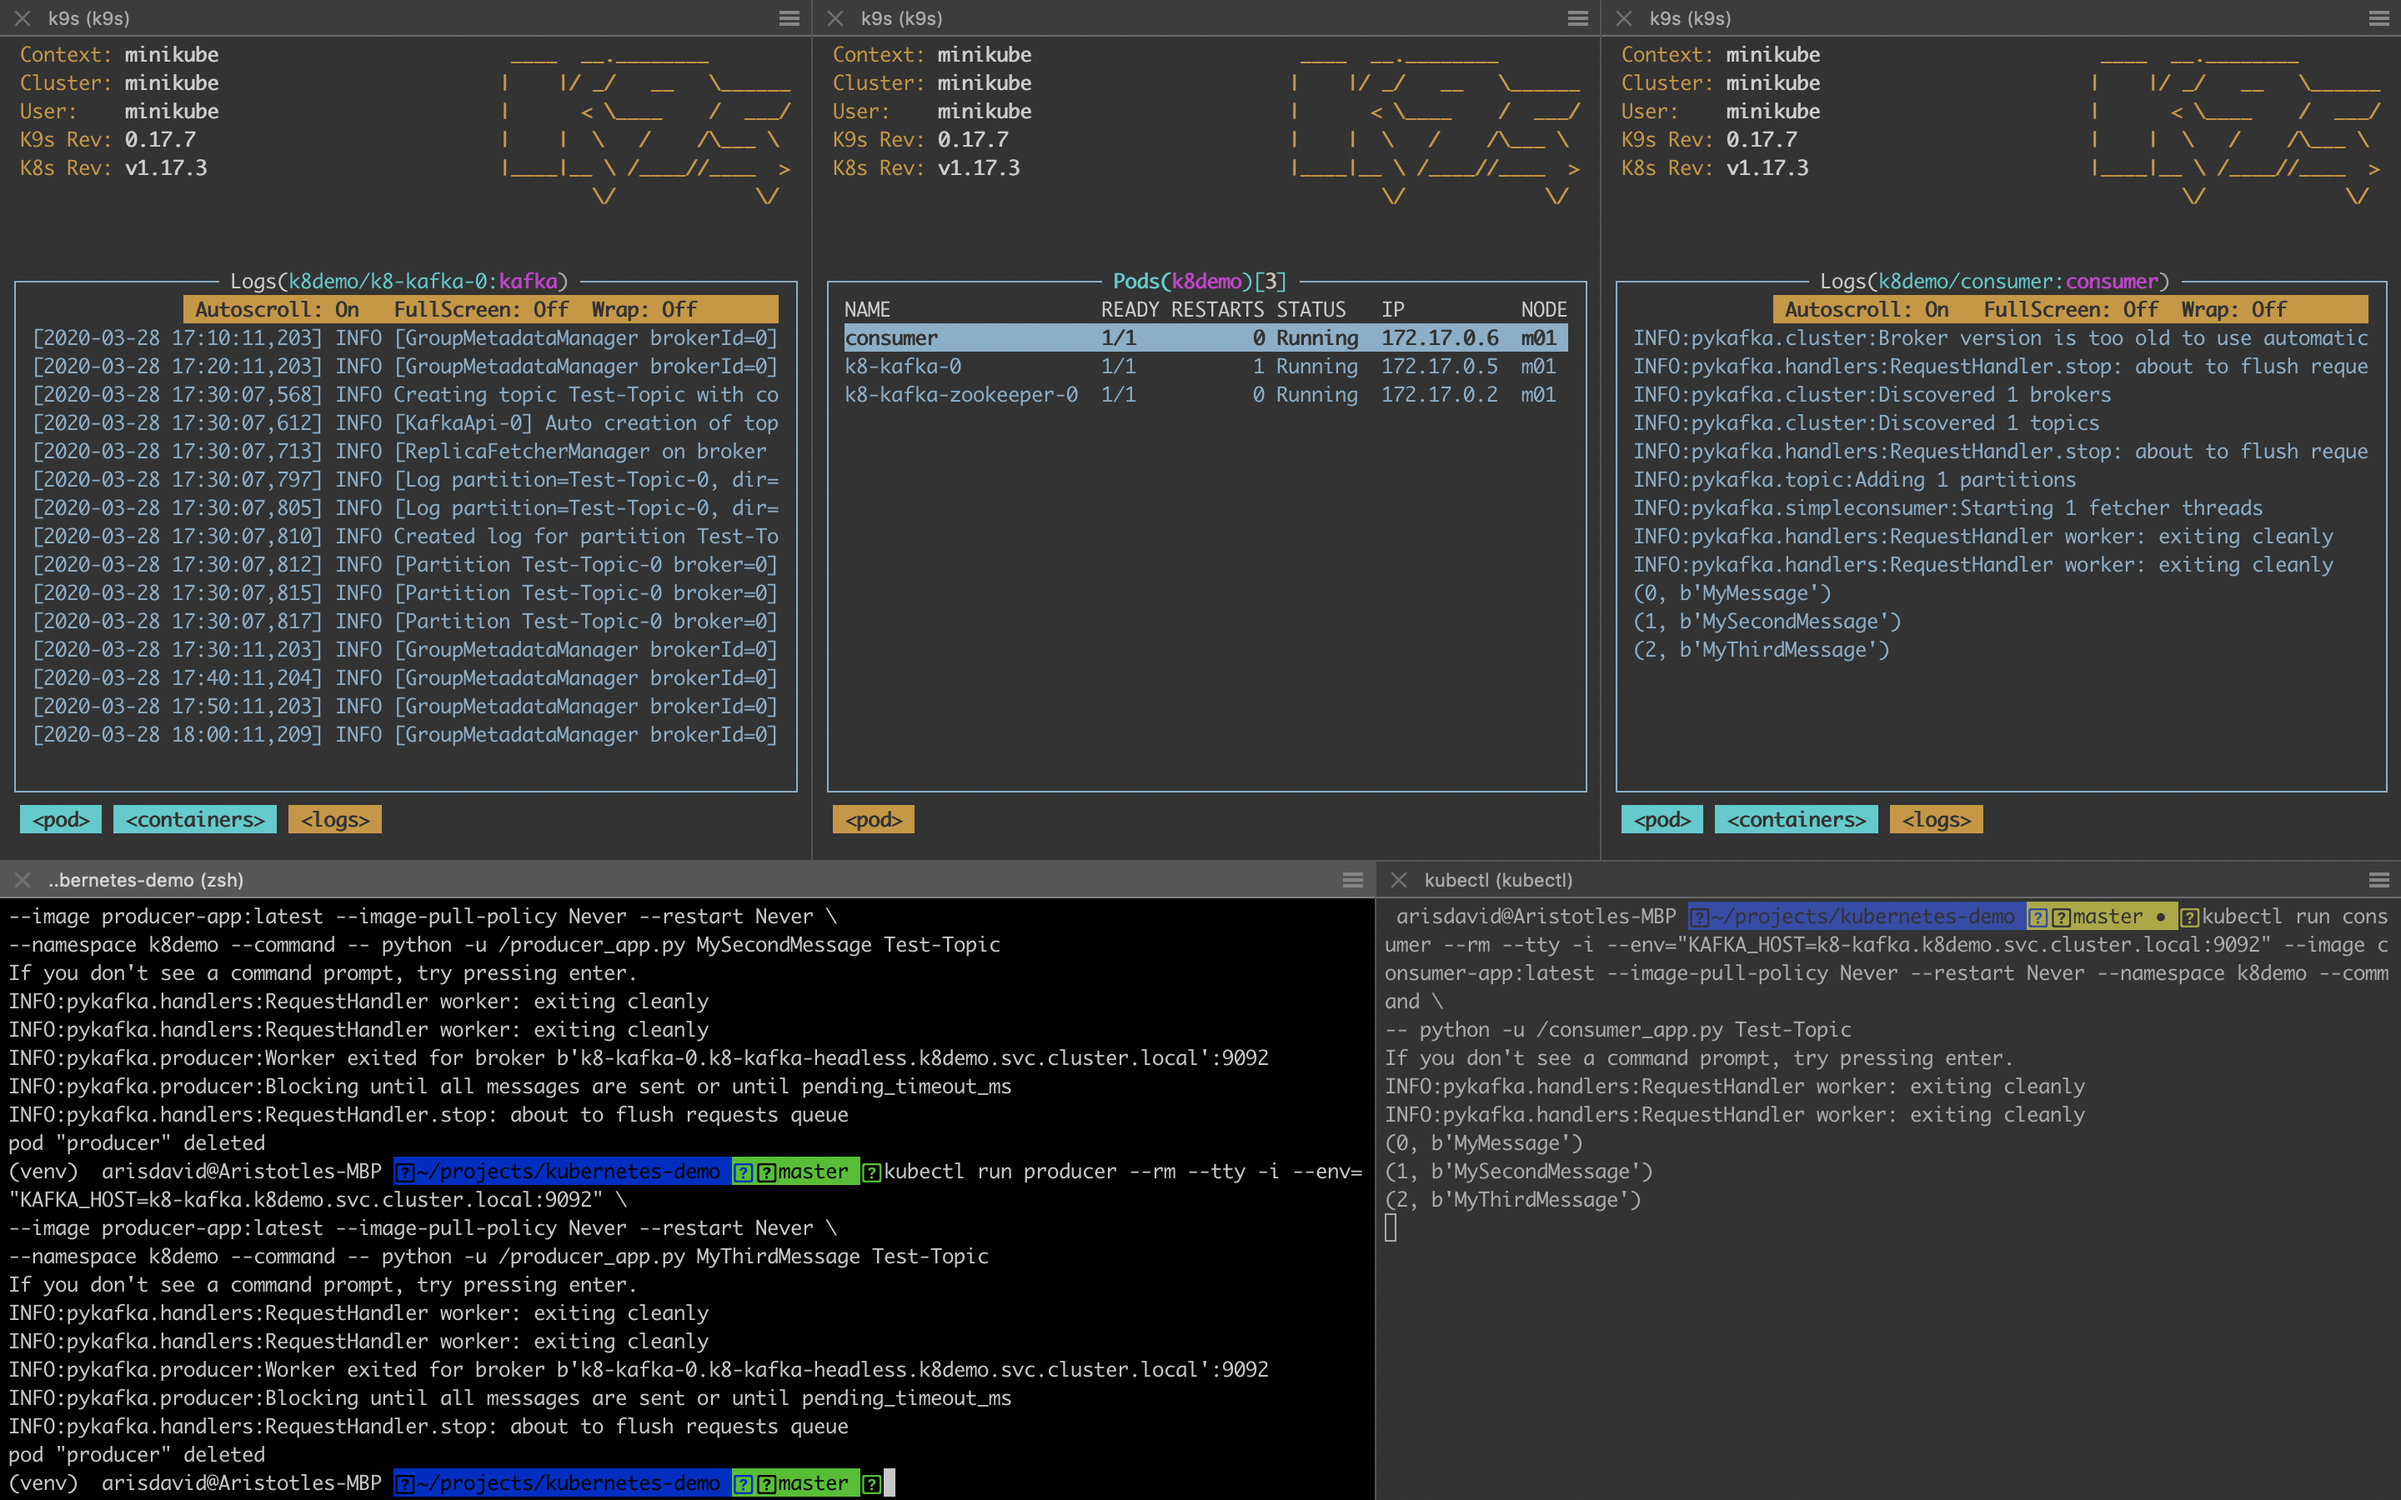
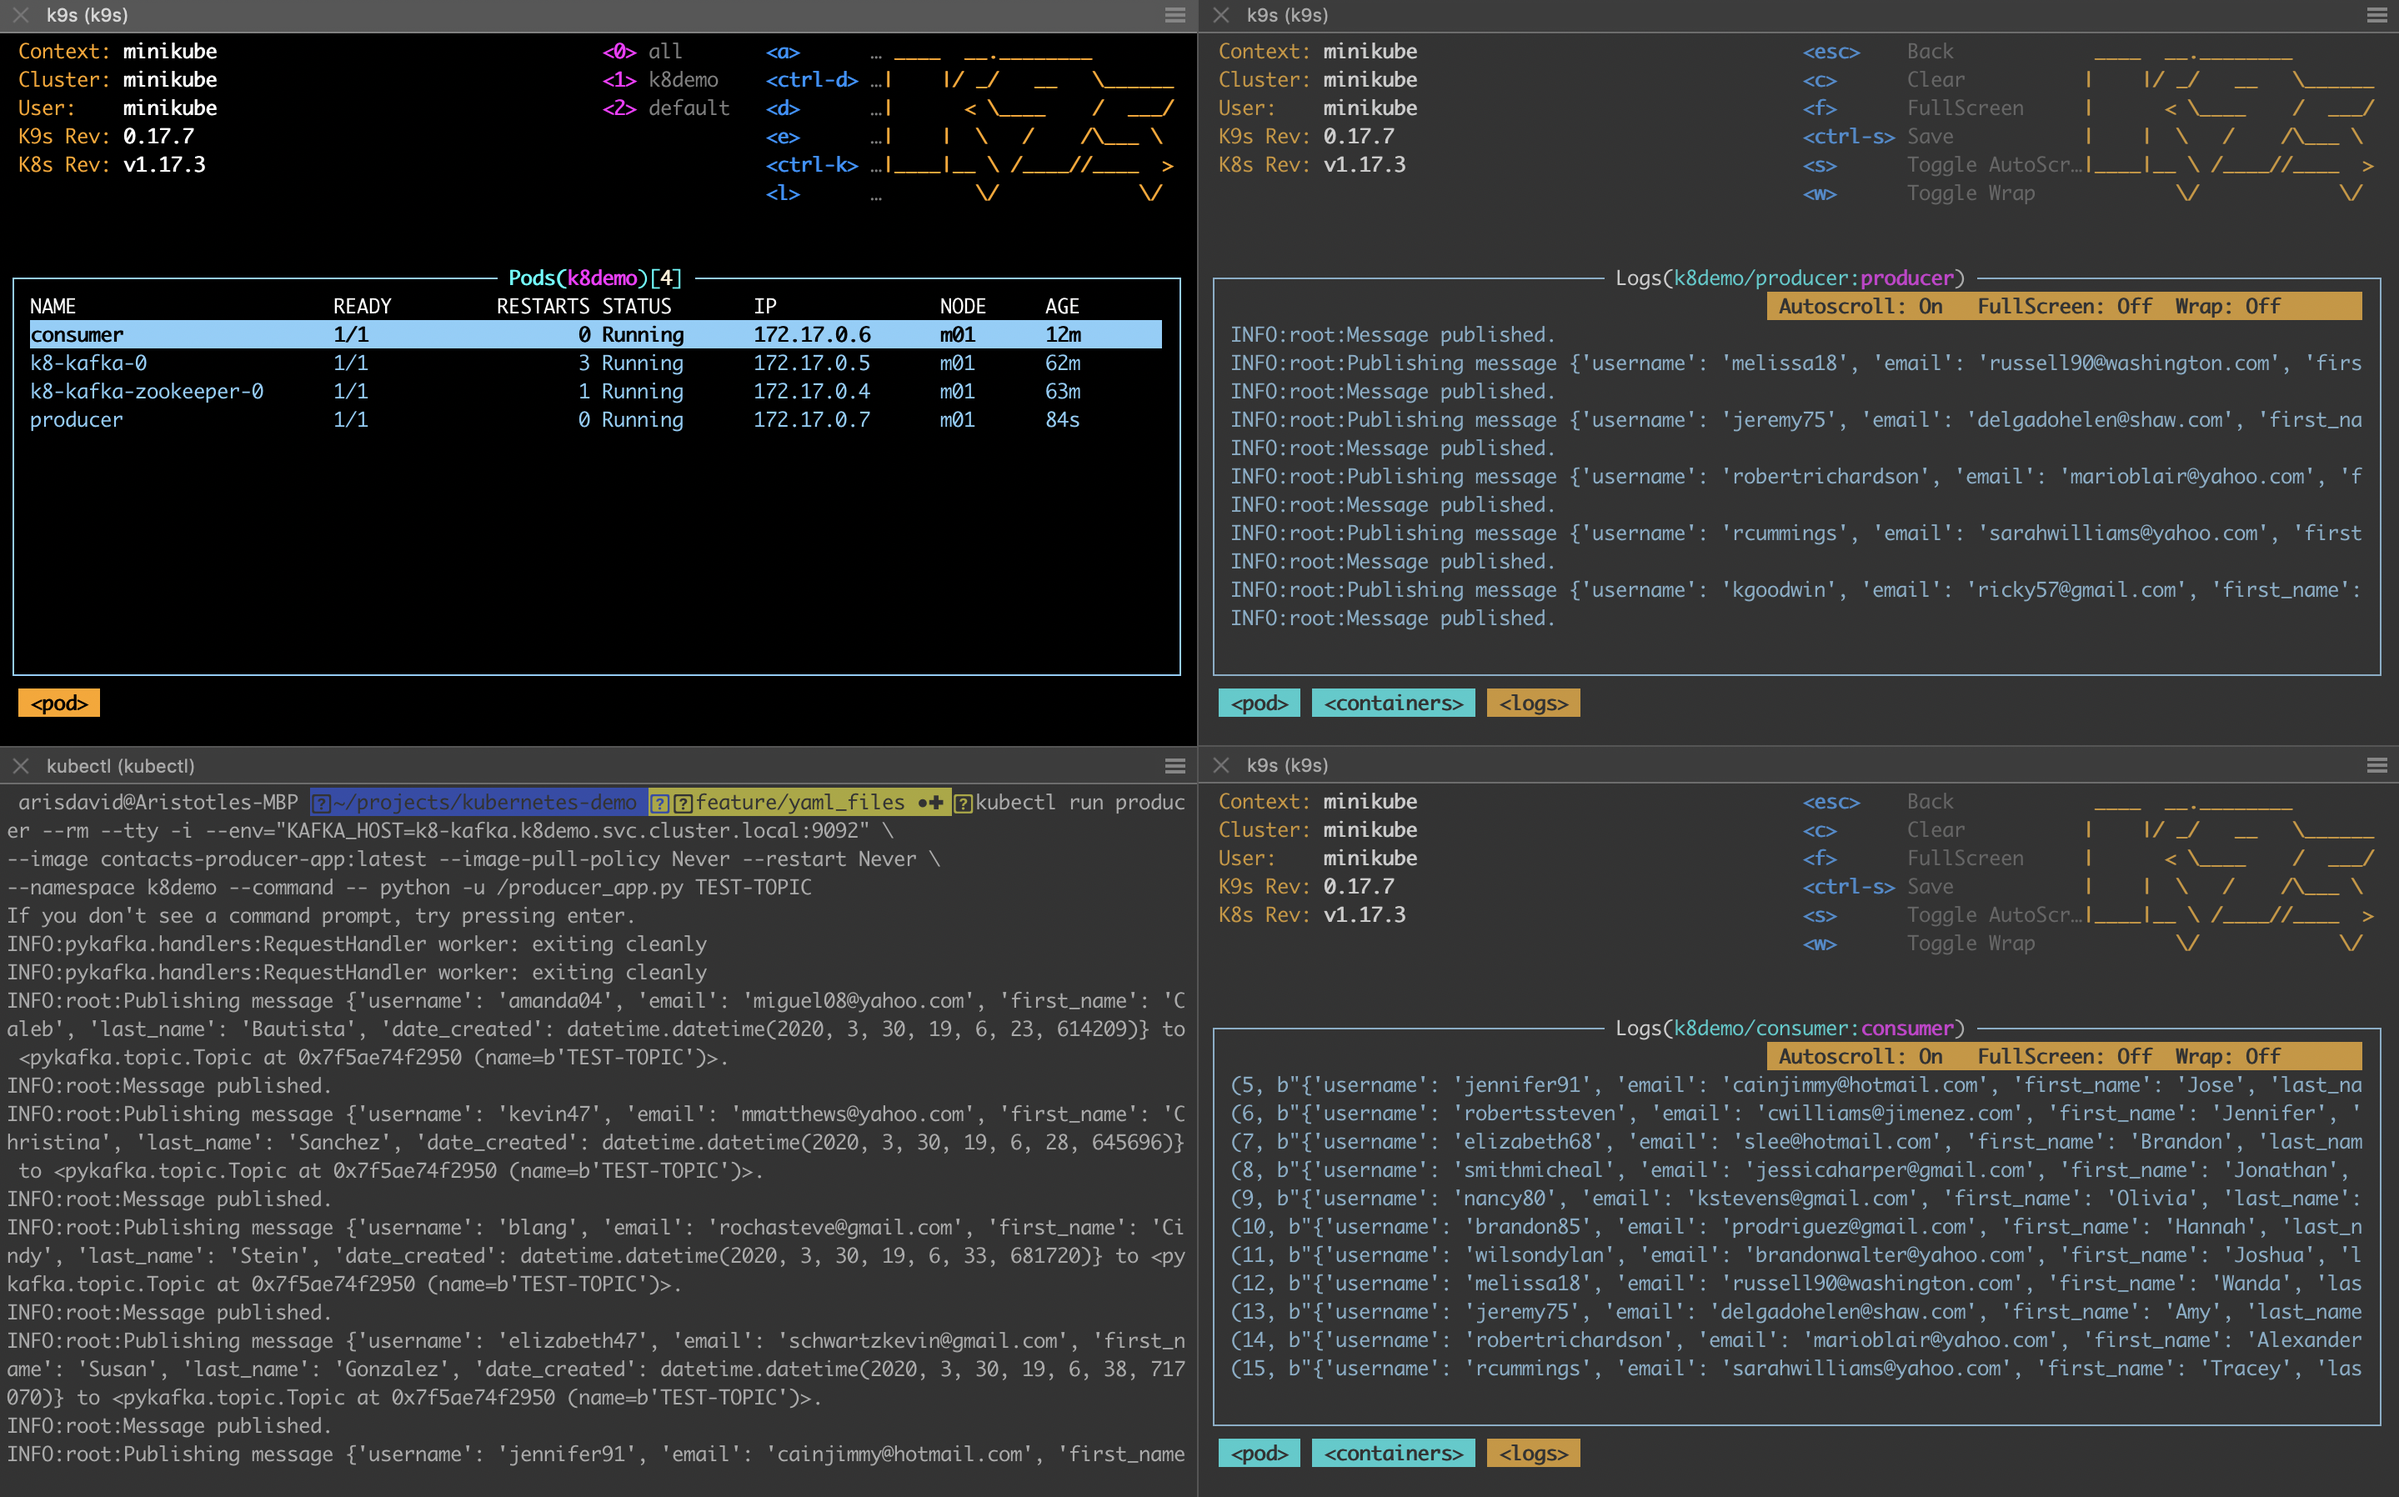
Added a non-ephemeral producer

diff --git a/random_producer/producer_app.py b/random_producer/producer_app.py
@@ -1,0 +1,46 @@
+import argparse
+import logging
+import os
+import time
+from datetime import datetime
+
+import faker
+from pykafka import KafkaClient
+
+logging.basicConfig(level=logging.INFO)
+
+client = KafkaClient(hosts=os.getenv("KAFKA_HOST"))
+
+
+def publish_random_records(topic):
+
+    topic = client.topics[topic]
+    with topic.get_producer() as producer:
+        while True:
+            f = faker.Faker()
+            contact = dict(
+                username=f.user_name(),
+                email=f.email(),
+                first_name=f.first_name(),
+                last_name=f.last_name(),
+                date_created=datetime.utcnow(),
+            )
+            logging.info(f"Publishing message {contact} to {topic}.")
+            producer.produce(str(contact).encode())
+            logging.info(f"Message published.")
+
+            time.sleep(5)
+
+
+if __name__ == "__main__":
+
+    parser = argparse.ArgumentParser("Generated random contacts")
+    parser.add_argument("topic", help="Kafka topic")
+    args = parser.parse_args()
+
+    _topic = str(args.topic)
+
+    if _topic is None:
+        raise Exception("Please make sure to provide a topic")
+
+    publish_random_records(_topic)

diff --git a/README.md b/README.md
@@ -48,9 +48,15 @@ helm repo add bitnami https://charts.bitnami.com/bitnami
 ## Build the Producer and Consumer Docker Images
 
 ### Build the producer-app docker image (inside minikube cluster)
- 
+
+Producer1: Ephemeral
 ```
 docker build -t producer-app:latest -f ./producer/Dockerfile producer
+```
+
+Producer2: Infinite Loop
+```
+docker build --no-cache -t contacts-producer-app:latest -f ./random_producer/Dockerfile random_producer
 ```
 
 ### Build the consumer-app docker image (inside minikube cluster)
@@ -67,18 +73,27 @@ helm install k8-kafka bitnami/kafka --namespace=k8demo \
 --set persistence.enabled=false --set zookeeper.persistence.enabled=false
 ```
 
-### Publish a message into a kafka topic
-``` 
-kubectl run producer --rm --tty -i --env="KAFKA_HOST=k8-kafka.k8demo.svc.cluster.local:9092" \
---image producer-app:latest --image-pull-policy Never --restart Never \
---namespace k8demo --command -- python -u /producer_app.py <message> <topic>
- ```
 ### Read messages from a specific topic
 ```
 kubectl run consumer --rm --tty -i --env="KAFKA_HOST=k8-kafka.k8demo.svc.cluster.local:9092" \ 
 --image consumer-app:latest --image-pull-policy Never --restart Never \ 
 --namespace k8demo --command -- python -u /consumer_app.py <topic>
 ```
+
+### Publish a message into a kafka topic (Producer1)
+``` 
+kubectl run producer --rm --tty -i --env="KAFKA_HOST=k8-kafka.k8demo.svc.cluster.local:9092" \
+--image producer-app:latest --image-pull-policy Never --restart Never \
+--namespace k8demo --command -- python -u /producer_app.py <message> <topic>
+ ```
+
+### Generate random data to publish into a kafka topic (Producer2)
+``` 
+kubectl run producer --rm --tty -i --env="KAFKA_HOST=k8-kafka.k8demo.svc.cluster.local:9092" \
+--image contacts-producer-app:latest --image-pull-policy Never --restart Never \
+--namespace k8demo --command -- python -u /producer_app.py <topic>
+ ```
+
 
 ### Screenshots
 ![Image of K9s](https://github.com/arisdavid/k8s-project/blob/master/demo/k9s.png)
